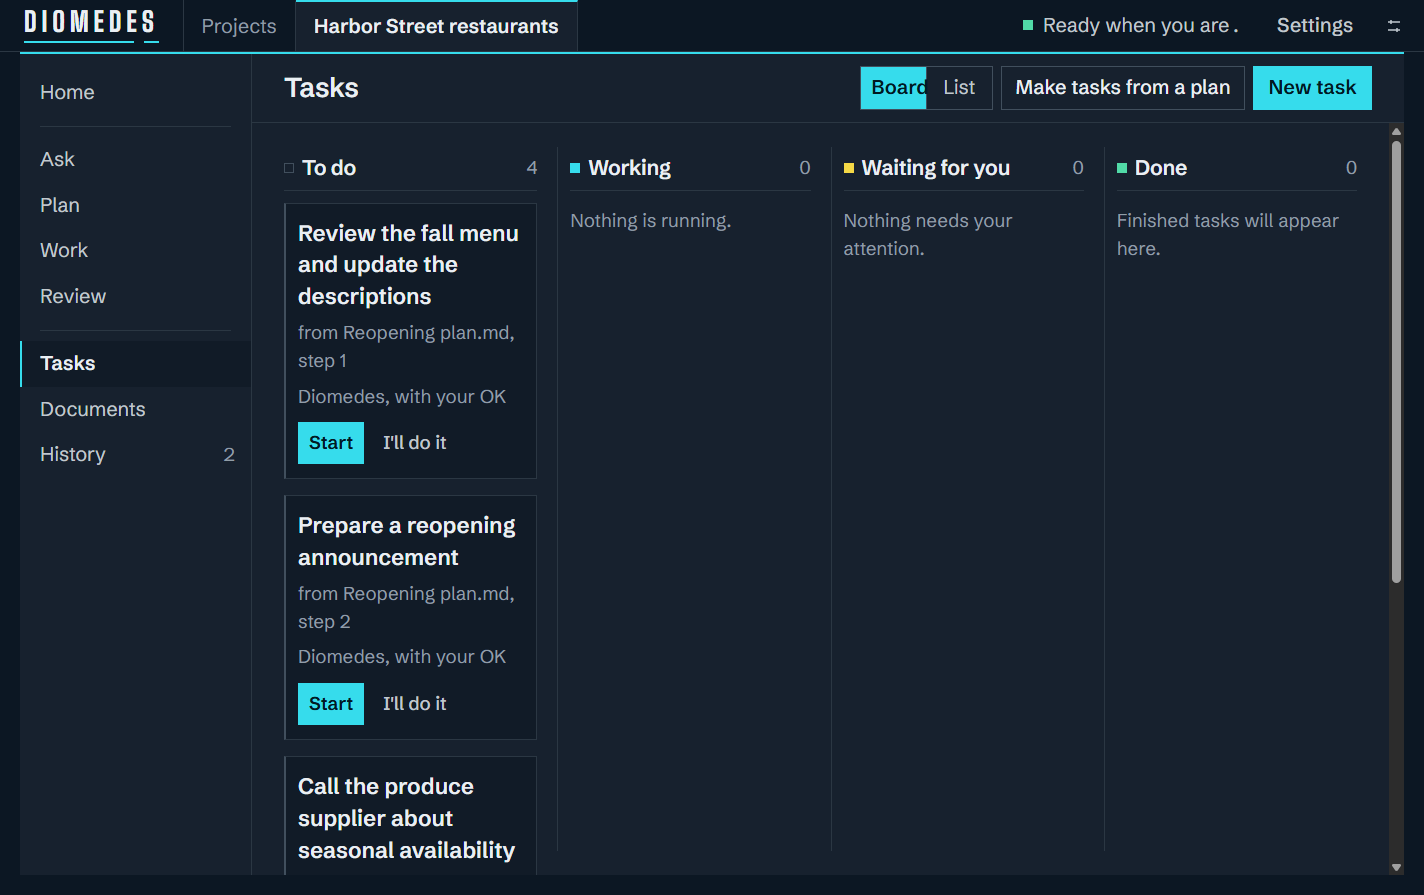
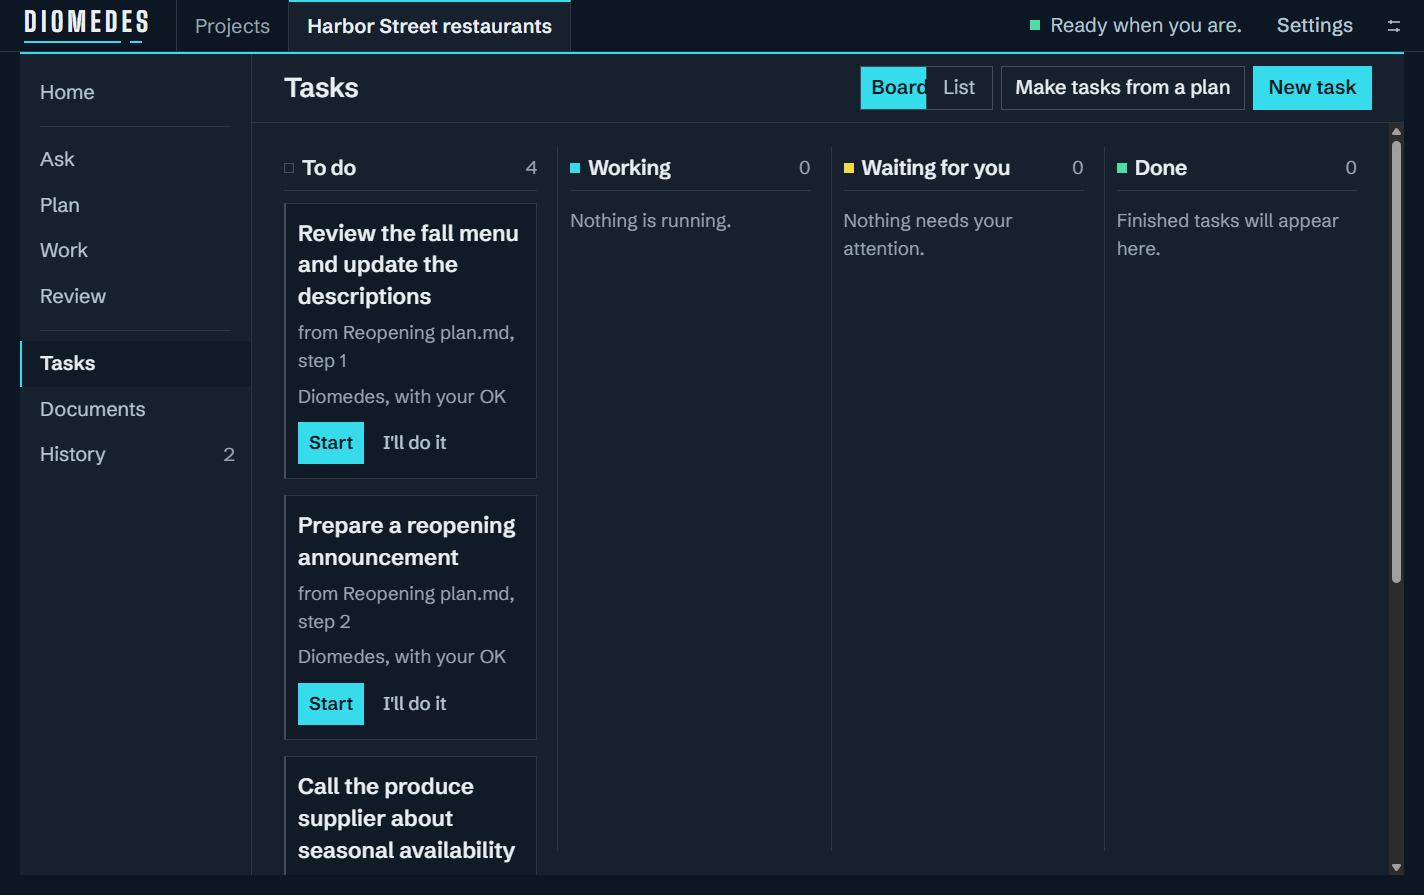
Desk: let the service name task threads; panes may narrow to 320px

diff --git a/client/Desk.tsx b/client/Desk.tsx
@@ -147,10 +147,8 @@ export function Desk({
   async function newThread(taskId?: string) {
     await perform(async () => {
       try {
-        const c = await api<Conversation>(`${base}/threads`, 'POST', {
-          name: 'New thread',
-          ...(taskId ? { taskId } : {}),
-        });
+        // No name: the service names task threads after their task and the rest 'New thread'.
+        const c = await api<Conversation>(`${base}/threads`, 'POST', taskId ? { taskId } : {});
         await load();
         openPane(c.id);
       } catch (e) {

diff --git a/client/styles.css b/client/styles.css
@@ -2158,7 +2158,7 @@ html[data-motion='reduced'] *::after {
 .desk-panes {
   display: grid;
   grid-auto-flow: column;
-  grid-auto-columns: minmax(360px, 1fr);
+  grid-auto-columns: minmax(320px, 1fr);
   gap: 1px;
   background: var(--dm-rule-2);
   min-height: 0;
